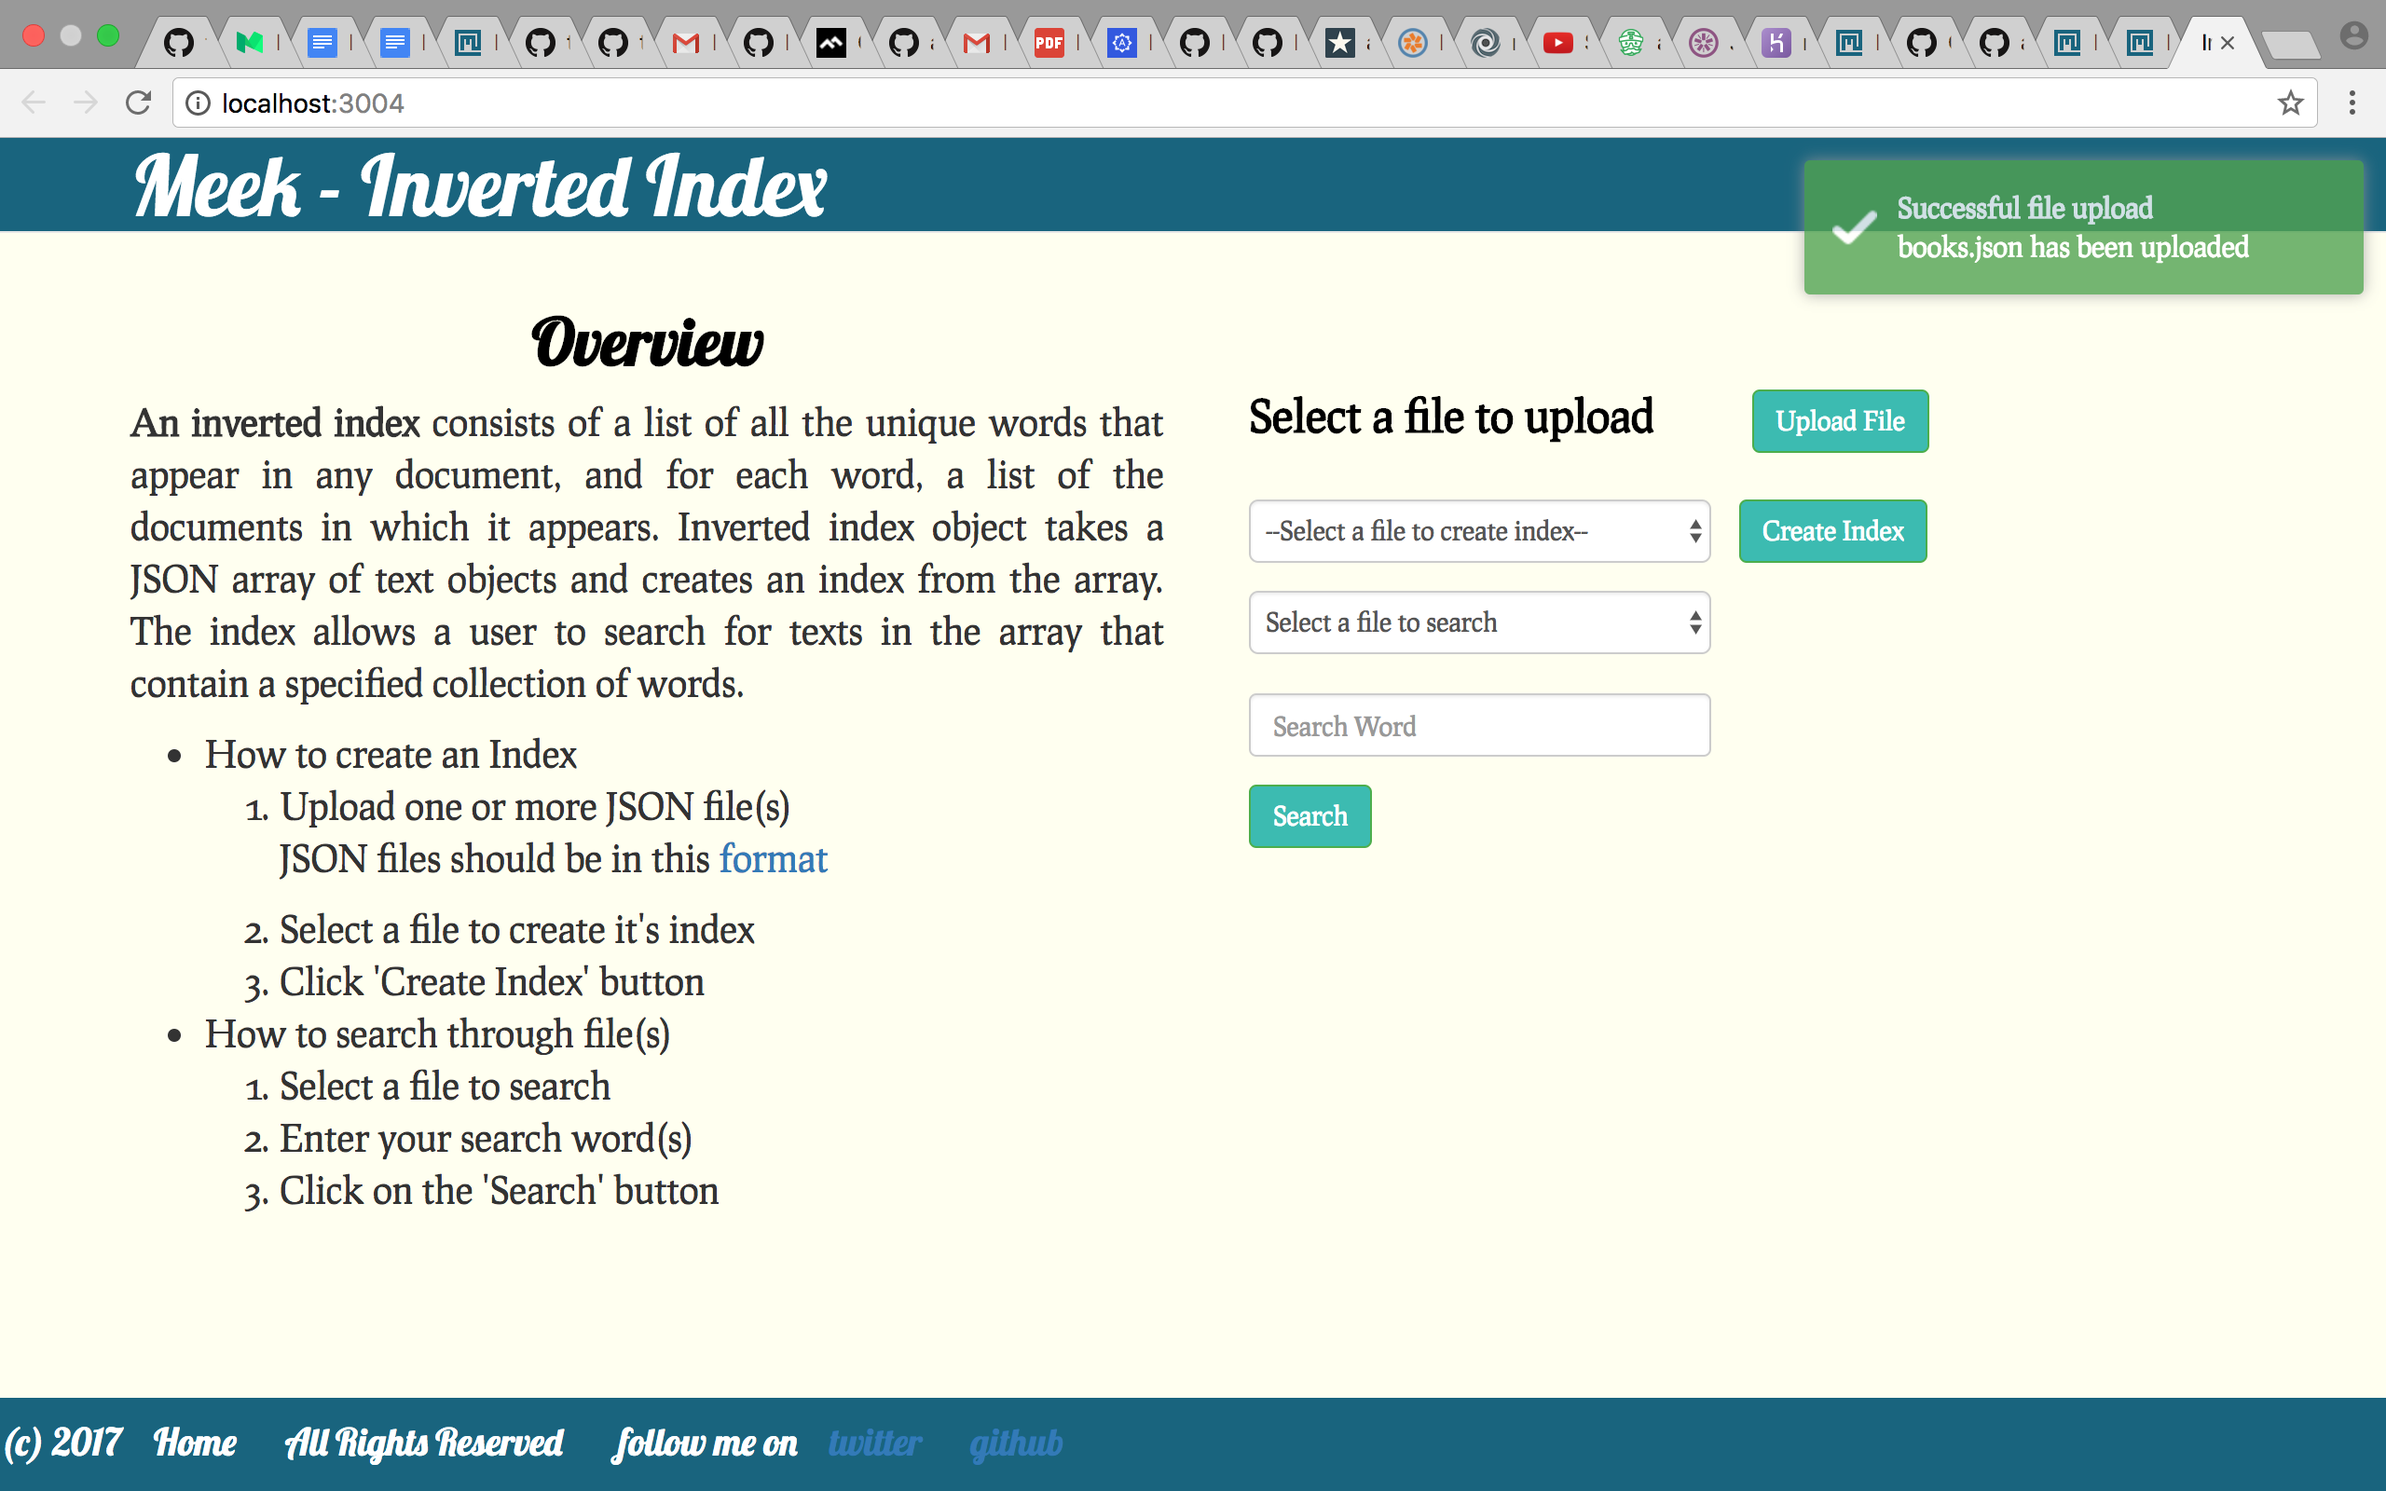
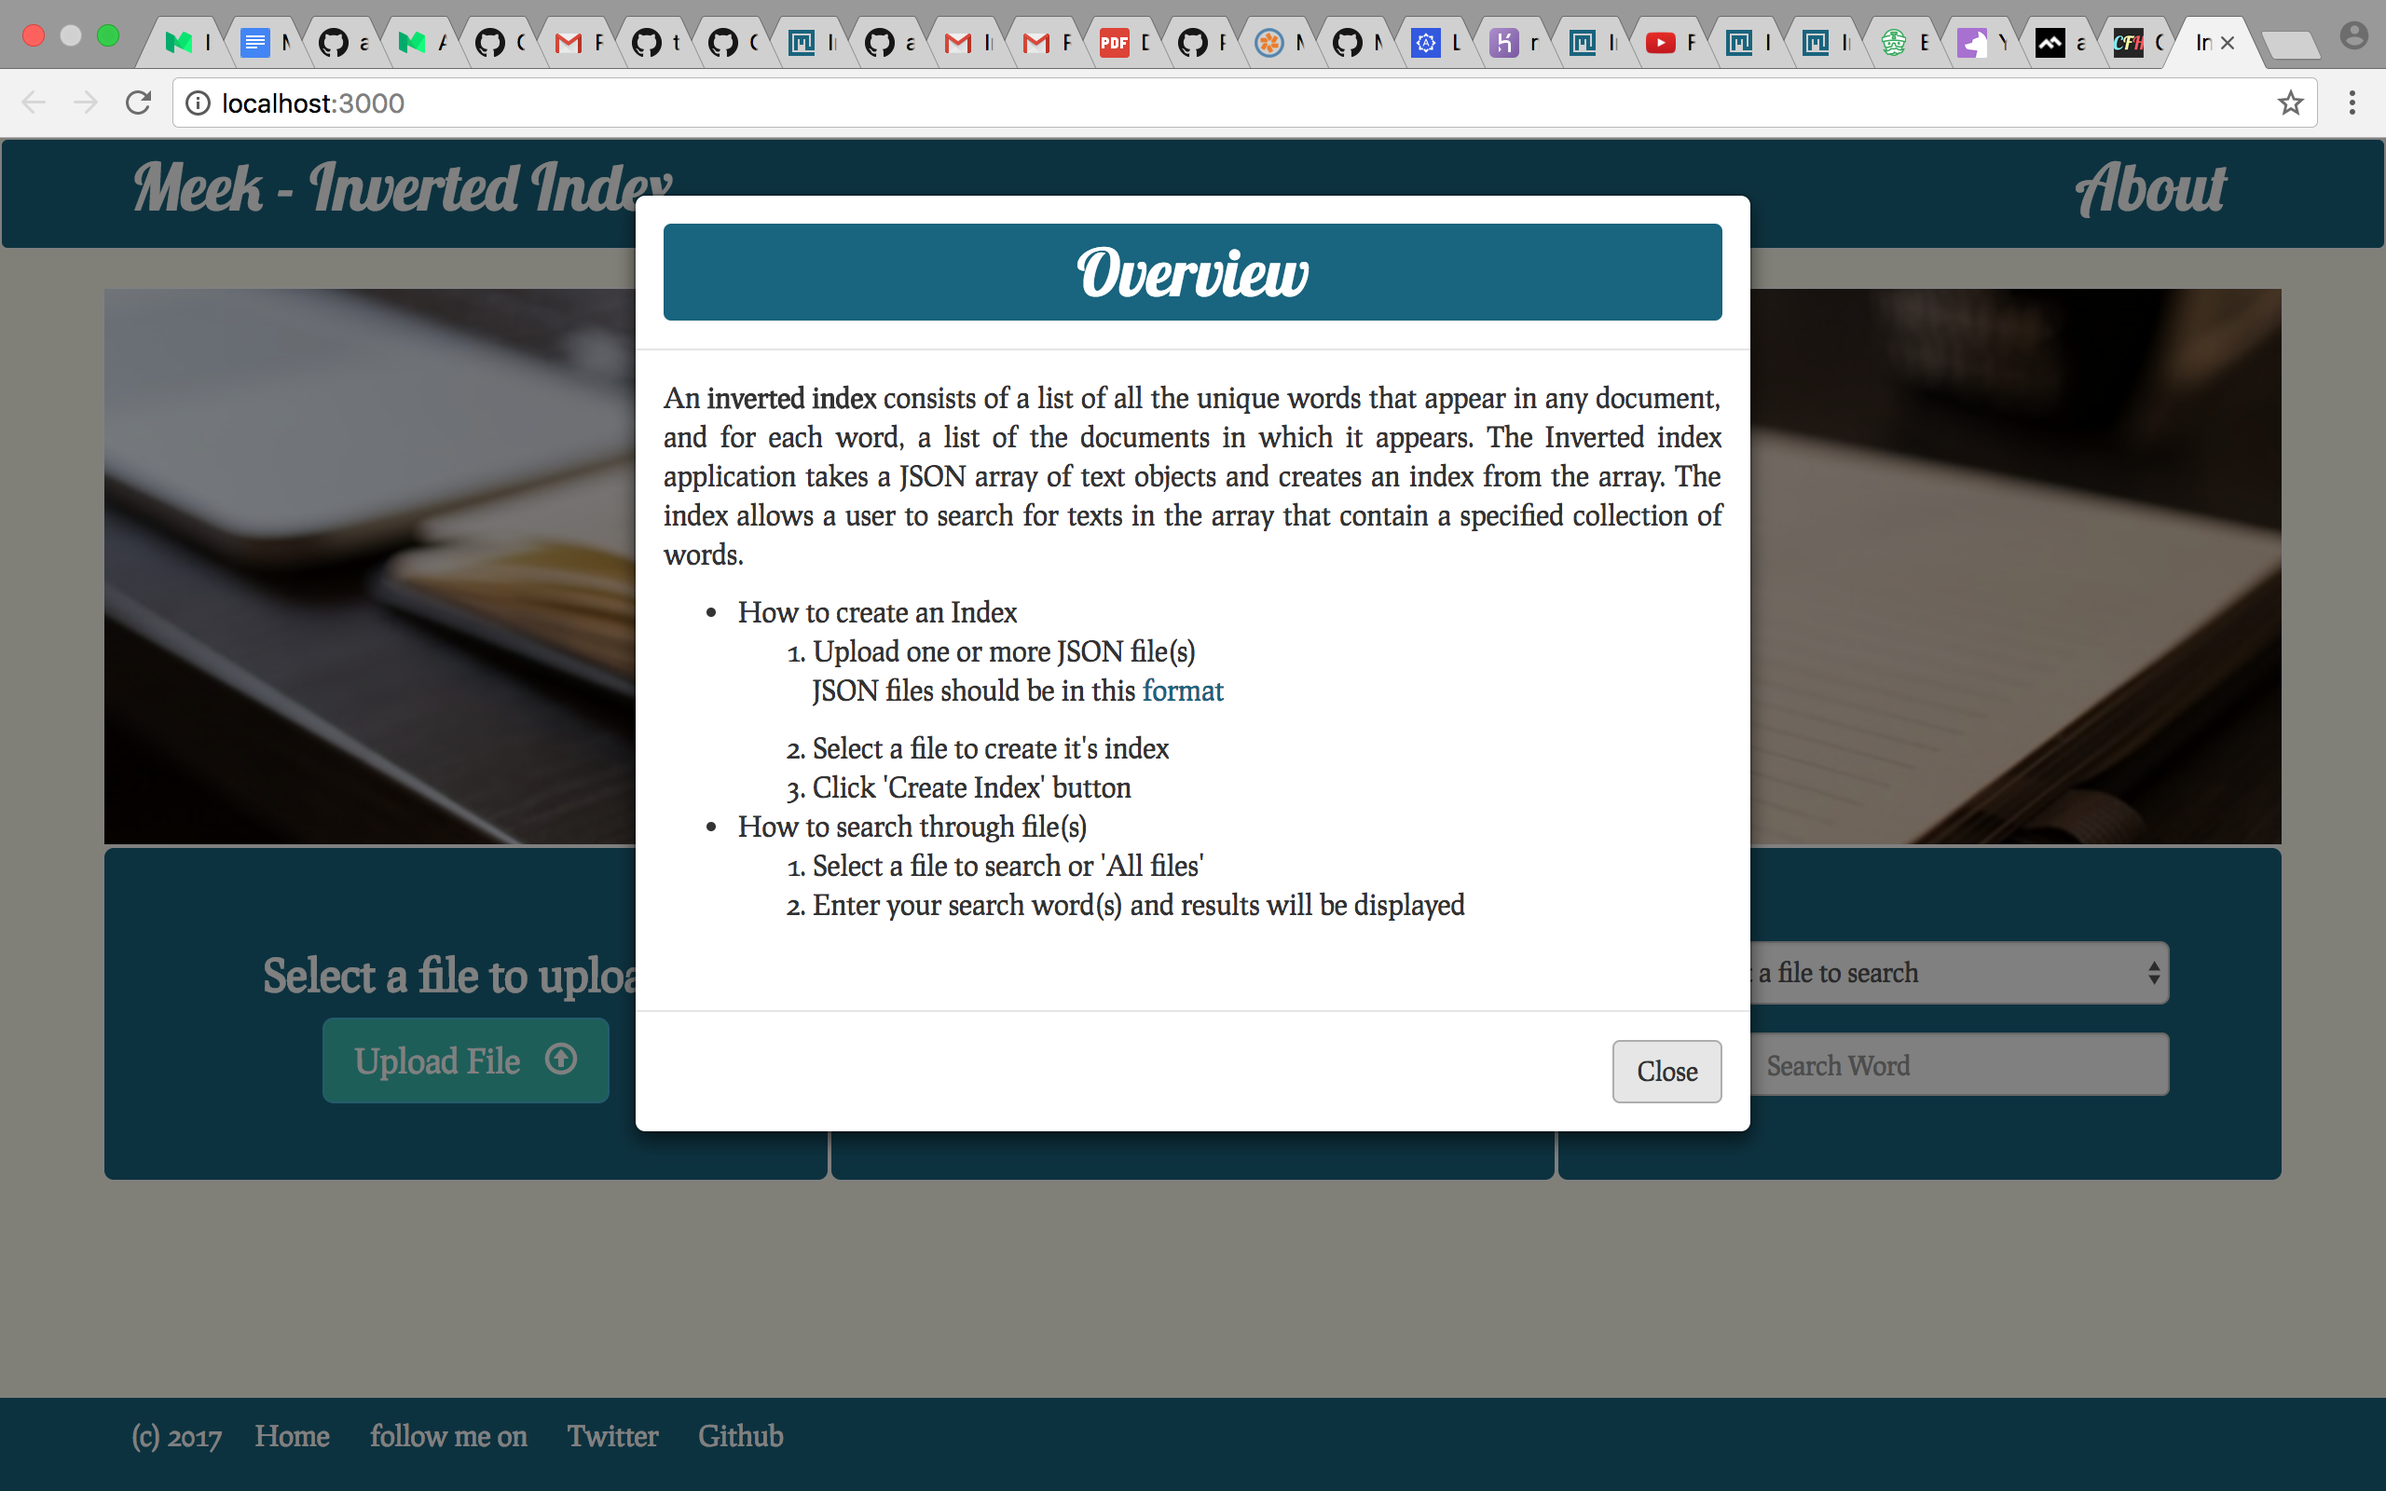
modify output for writing-html-js-css-outputs

diff --git a/06-building-a-program-start-to-finish/writing-html-js-css-outputs-(template)/output/index.html b/06-building-a-program-start-to-finish/writing-html-js-css-outputs-(template)/output/index.html
@@ -2,6 +2,7 @@
 <html lang="en">
 <head>
   <meta charset="UTF-8">
+  <meta name="viewport" content="width=device-width, initial-scale=1">
   <link rel="stylesheet" href="https://maxcdn.bootstrapcdn.com/bootstrap/3.3.7/css/bootstrap.min.css" integrity="sha384-BVYiiSIFeK1dGmJRAkycuHAHRg32OmUcww7on3RYdg4Va+PmSTsz/K68vbdEjh4u"
     crossorigin="anonymous">
   <link href='//fonts.googleapis.com/css?family=Prociono' rel='stylesheet'>
@@ -14,133 +15,171 @@
   <link rel="icon" href="public/images/favicon.ico" type="image/x-icon">
   <title>Inverted Index</title>
 </head>
-<body link="blue" ng-app="Indexed">
-  <nav class="navbar navbar-default navbar-fixed-top">
+<header>
+  <!-- Fixed navbar -->
+  <nav class="navbar navbar-inverse">
     <div class="container">
       <div class="navbar-header">
-        <a class="navbar-brand" href="#">
-          <p id="main">Meek - Inverted Index</p>
-        </a>
+        <button type="button" class="navbar-toggle collapsed" data-toggle="collapse" data-target="#navbar" aria-expanded="false" aria-controls="navbar">
+          <span class="sr-only">Toggle navigation</span>
+          <span class="icon-bar"></span>
+          <span class="icon-bar"></span>
+          <span class="icon-bar"></span>
+        </button>
+        <a class="navbar-brand" href="#"> <span class="white"> Meek - Inverted Index </span></a>
+      </div>
+      <div id="navbar" class="navbar-collapse collapse">
+        <ul class="nav navbar-nav navbar-right">
+          <li><a href="#" data-toggle="modal" data-target="#myModal"> <span  class="white"> About </span> </a></li>
+        </ul>
       </div>
     </div>
   </nav>
+</header>
+<body link="blue" ng-app="Indexed">
+  <!-- Modal -->
+  <div id="myModal" class="modal fade" role="dialog">
+    <div class="modal-dialog">
+      <!-- Modal content-->
+      <div class="modal-content">
+        <div class="modal-header">
+          <!--overview of inverted-index-->
+          <h4 class="modal-title navbar white" id="overview">Overview</h4>
+        </div>
+        <div class="modal-body">
+          <p class="text-justify">An <strong>inverted index</strong> consists of a list of all the unique words that appear in any document,
+          and for each word, a list of the documents in which it appears.
+          The Inverted index application takes a JSON array of text objects and creates an index from the array.
+          The index allows a user to search for texts in the array that contain a specified collection of words.
+          </p>
+          <ul>
+            <li>How to create an Index</li>
+            <ol>
+              <li>Upload one or more JSON file(s)
+                <p>JSON files should be in this <a href="https://gist.github.com/q-ode/72019451b98f079a8d737eb7a412bf14" id="format">format</a></p>
+              </li>
+              <li>Select a file to create it's index</li>
+              <li>Click 'Create Index' button</li>
+            </ol>
+            <li>How to search through file(s)</li>
+            <ol> 
+              <li>Select a file to search or 'All files'</li>
+              <li>Enter your search word(s) and results will be displayed</li>
+            </ol>
+          </ul>
+          <br>
+        </div>
+        <div class="modal-footer">
+          <button type="button" class="btn btn-default" data-dismiss="modal">Close</button>
+        </div>
+      </div>
+    </div>
+  </div>
   <div class="container content" ng-controller="fileController">
     <div class="row">
-      <!--overview of inverted-index-->
-      <div id="overview" class="col-lg-6">
-        <h2 id="mains"><strong>Overview</strong></h2>
-        <p class="text-justify"><strong>An inverted index</strong> consists of a list of all the unique words that appear in any document, and for each word, a list of the documents in which it appears. Inverted index object takes a JSON array of text objects and creates an index from the array. The index allows a user to search for texts in the array that contain a specified collection of words.
-        </p>
-        <ul>
-          <li>How to create an Index</li>
-          <ol>
-            <li>Upload one or more JSON file(s)
-              <p>JSON files should be in this <a href="https://gist.github.com/q-ode/72019451b98f079a8d737eb7a412bf14">format</a></p>
-            </li>
-            <li>Select a file to create it's index</li>
-            <li>Click 'Create Index' button</li>
-          </ol>
-          <li>How to search through file(s)</li>
-          <ol> 
-            <li>Select a file to search</li>
-            <li>Enter your search word(s)</li>
-            <li>Click on the 'Search' button</li>
-          </ol>
-        </ul>
-      <br>
-    </div>
-    <!--upload valid JSON file(s)-->
-      <div class="col-md-6" id="choice">
-        <div class="form-group col-lg-12">
-          <h3 id="display" class="help-block" id="selectFile"> Select a file to upload &nbsp &nbsp &nbsp &nbsp
-          <label for="file-input" class="btn btn-default btn-file btn-success">Upload File
+      <div class="jumbotron jumbotron-billboard" id="jumb">
+        <div class="img"></div> 
+      </div>
+      <div class="col-sm-4 jumbotron">
+        <h3 id="display" class="help-block"> Select a file to upload </h3>
+        <div class="form-group">
+          <label for="file-input" class="btn btn-default btn-file btn-info btn-lg">Upload File &nbsp;
+            <span class="glyphicon glyphicon-upload"></span>
             <input type="file" id="file-input" multiple accept="application/json">
           </label>
-          </h3>
         </div>
-        <!--create an index for uploaded files-->
-        <div class="col-md-6">
-          <select class="form-control form-group" id="selectedFile">
+      </div>
+      <div class="col-sm-4 jumbotron"> 
+        <div class="form-group">
+          <select class="form-control" id="selectedFile">
             <option>--Select a file to create index--</option>
             <option ng-repeat="name in fileNames">{{ name }}</option>
           </select>
-        </div><br>
-        <button class="btn btn-success" ng-click="createIndex()">Create Index</button>
+        </div>
+        <button class="btn btn-info btn-lg" ng-click="createIndex()">Create Index &nbsp;
+          <span class="glyphicon glyphicon-book"></span>
+        </button>
       </div>
-      <div class="col-md-6">
-        <div class="form-group col-md-6">
+      <div class="col-sm-4 jumbotron"> 
+        <div class="form-group">
           <select class="form-control" id="searchFile">
             <option>Select a file to search</option>
             <option ng-repeat="(key, value) in indexedFiles">{{ key }}</option>
             <option>All files</option> 
-          </select><br>
-          <div class="col-md-15">
-            <input type="text" class="form-control form-group col-md-6" placeholder="Search Word" id="searchBox">
-          </div><br>
-          <button type="submit" class="btn btn-success" ng-click=searchIndex()>Search</button>
+          </select>
         </div>
-      </div>
+        <div class="input-group">
+          <span class="input-group-addon">
+            <span class="glyphicon glyphicon-search"> </span>
+          </span>
+          <input type="text" class="form-control form-group col-md-6" placeholder="Search Word" id="searchBox" ng-keyup="searchIndex()">
+        </div>
+      </div> 
     </div>
+    <br>
     <!--inverted-index table -->
     <div ng-repeat="(name, index) in indexed">
-      <table class="table table-striped table-responsive table-hover" ng-show="showTable">
-        <div class="row" ng-show="tableTitle">
-          <div class="col-md-12">
-            <h2><span class="glyphicon glyphicon-th-large"></span>&nbsp;Inverted Index Table for {{ name }}</h2><br>
+      <div id="resultTable">
+        <table class="table table-striped table-responsive table-hover" ng-show="showTable">
+          <div class="row" ng-show="tableTitle">
+            <div class="col-md-12">
+              <h2><span class="glyphicon glyphicon-th-large"></span>&nbsp;Inverted Index Table for <em>{{ name }}</em></h2><br>
+            </div>
           </div>
-        </div>
-        <thead>
-          <tr class="success">
-            <th>Tokens</th>
-            <th ng-repeat="fileTitle in fileTitles[name]">{{ fileTitle }}</th>
-          </tr>
-        </thead>
-        <tbody>
-          <tr ng-repeat="(key, values) in index">
-            <td>{{ key }}</td> 
-            <td ng-repeat="number in range(docsCount[name])"><span ng-if="values.includes(number)"><span class="glyphicon glyphicon-ok" aria-hidden="true"></span></span><span ng-if="values.includes(number) === false"><span class="glyphicon glyphicon-remove" aria-hidden="true"></span></span>
-            </td>
-          </tr>
-        </tbody>
-      </table>
+          <thead>
+            <tr class="success">
+              <th>Tokens</th>
+              <th ng-repeat="fileTitle in fileTitles[name]">{{ fileTitle }}</th>
+            </tr>
+          </thead>
+          <tbody>
+            <tr ng-repeat="(key, values) in index">
+              <td>{{ key }}</td> 
+              <td ng-repeat="number in range(docsCount[name])"><span ng-if="values.includes(number)"><span class="glyphicon glyphicon-ok" aria-hidden="true"></span></span><span ng-if="values.includes(number) === false"><span class="glyphicon glyphicon-remove" aria-hidden="true"></span></span>
+              </td>
+            </tr>
+          </tbody>
+        </table>
+    </div>
+    <br>
     </div>
     <!--search result table-->
     <div class="row" ng-show="showResultTable" ng-repeat="(name, index) in mySearch">
-      <table class="table table-striped table-responsive table-hover">
-        <div class="row">
-          <div class="col-md-12">
-            <h2><span class="glyphicon glyphicon-th-large"></span>&nbsp;Search result for "{{ query }}" in {{ name }}</h2><br>
+      <div id="resultTable">
+        <table class="table table-striped table-responsive table-hover">
+          <div class="row">
+            <div class="col-md-12">
+              <h2><span class="glyphicon glyphicon-th-large"></span>&nbsp;Search result for "{{ query }}" in {{ name }}</h2><br>
+            </div>
           </div>
-        </div>
-        <thead>
-          <tr class="success">
-            <th>Tokens</th>
-            <th ng-repeat="fileTitle in fileTitles[name]">{{ fileTitle }}</th>
-          </tr>
-        </thead>
-        <tbody>  
-          <tr ng-repeat="(key, values) in index">
-          <td>{{ key }}</td>
-          <td ng-repeat="number in range(docsCount[name])"><span ng-if="values.includes(number)"><span class="glyphicon glyphicon-ok" aria-hidden="true"></span></span><span ng-if="values.includes(number) === false"><span class="glyphicon glyphicon-remove" aria-hidden="true"></span></span>
-          </td>
-          </tr>
-        </tbody>
-      </table>
+          <thead>
+            <tr class="success">
+              <th>Tokens</th>
+              <th ng-repeat="fileTitle in fileTitles[name]">{{ fileTitle }}</th>
+            </tr>
+          </thead>
+          <tbody>  
+            <tr ng-repeat="(key, values) in index">
+            <td>{{ key }}</td>
+            <td ng-repeat="number in range(docsCount[name])"><span ng-if="values.includes(number)"><span class="glyphicon glyphicon-ok" aria-hidden="true"></span></span><span ng-if="values.includes(number) === false"><span class="glyphicon glyphicon-remove" aria-hidden="true"></span></span>
+            </td>
+            </tr>
+          </tbody>
+        </table>
+      </div>
     </div>
-    <br/>
-    <br/>
-    </br>
-    </br>
-    </br>
   </div>
+  <br>
+  <br>
+  <footer class="footer">
+    <div class="container">
+      <p>(c) 2017 &nbsp;&nbsp;&nbsp;<a href="#"> Home</a>&nbsp;&nbsp;&nbsp;&nbsp;&nbsp;&nbsp;<span>follow me on &nbsp;&nbsp;&nbsp;&nbsp;&nbsp;</span><a href="https://twitter.com/mehrceey04">Twitter</a>&nbsp;&nbsp;&nbsp;&nbsp;&nbsp;&nbsp;<a href="https://github.com/andela-moseni">Github</a></p>
+    </div>
+  </footer>
   <!-- scripts are loaded here -->
   <script type="text/javascript" src="https://code.jquery.com/jquery-2.1.1.min.js"></script>
   <script src="https://maxcdn.bootstrapcdn.com/bootstrap/3.3.7/js/bootstrap.min.js" integrity="sha384-Tc5IQib027qvyjSMfHjOMaLkfuWVxZxUPnCJA7l2mCWNIpG9mGCD8wGNIcPD7Txa" crossorigin="anonymous"></script>
   <script type="text/javascript" src="inverted-index.js"></script>
   <script type="text/javascript" src="public/js/app.js"></script>
-  <footer>
-    <p>(c) 2017 <a href="#"> &nbsp;&nbsp; Home &nbsp;&nbsp;</a>&nbsp;&nbsp;&nbsp;All Rights Reserved &nbsp;&nbsp;&nbsp;&nbsp;&nbsp;&nbsp;follow me on
-    &nbsp;&nbsp;&nbsp;<a href="https://twitter.com/mehrceey04" id="styles">twitter</a>&nbsp;&nbsp;&nbsp;&nbsp;&nbsp;&nbsp;<a href="https://github.com/andela-moseni" id="styles">github</a></p>
-  </footer>
 </body>
 </html>
